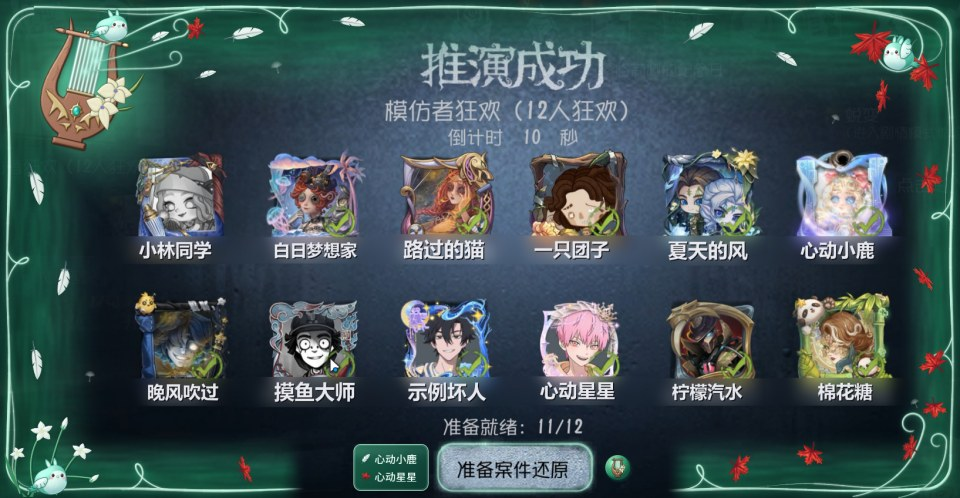
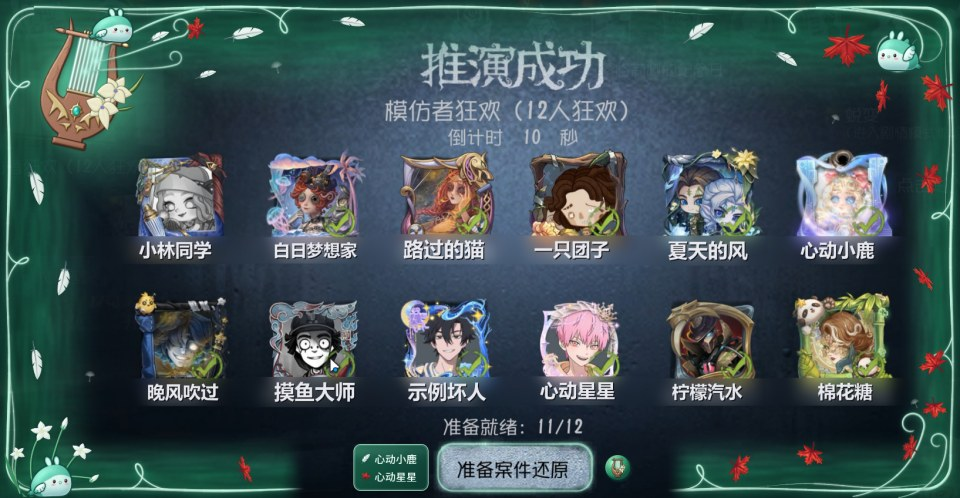
竖琴清风's birds are fat little teal dumplings now, closer to the friend's picture, and breathe, sway, blink and flick a wing while they sit.

Changed region(s): [[0.8438, 0.0602, 1.0, 0.2108], [0.0312, 0.9036, 0.0938, 1.0], [0.0938, 0.0, 0.1562, 0.0904]]

diff --git a/blacklist_detect/love_scenes/lyre.py b/blacklist_detect/love_scenes/lyre.py
@@ -77,13 +77,15 @@ SHARP = 1.5
 # right, and bobs on every strum. One flies in from off the right edge on the entrance's gust, from FLY[0] to FLY[1]
 # seconds in, a flap every FLAP seconds, and lands on the curl in the top right facing left (its way in design points,
 # a curve whose last point is the curl). One sits among the cecilias in the bottom left facing right, and puffs up on
-# the music's downbeat, the first strum. Each blinks now and then.
+# the music's downbeat, the first strum. Sitting, each breathes, sways a little, blinks and flicks a wing now and then.
 PERCH = (53.0, -140.0)
 FLY, FLAP = (0.25, 1.35), 0.24
 WAY_IN = ((1690, 410), (1590, 390), (1575, 90), (1529, 121))
 # The bird among the cecilias sits a little in front of the current, over the stalks' feet.
-NEST = (88, 842)
-BLINKS = ((2.2, 3.75), (2.3, 3.9), (1.7, 3.35, 4.15))
+NEST = (88, 845)
+# Each bird's small life as it sits (the lyre's, the flyer's, the cecilias'): when it blinks, when its wing flutters,
+# and where in its breath it starts.
+IDLE = (((2.2, 3.75), (1.55, 3.3), 0.0), ((2.3, 3.9), (2.6, 4.15), 1.9), ((1.7, 3.35, 4.15), (2.45, 3.9), 3.7))
 
 
 def make(stage: Stage):  # noqa: ANN201
@@ -131,7 +133,8 @@ def make(stage: Stage):  # noqa: ANN201
         (1384, 774, 26, 300, 2.9, False, False, (-6, 0), (1.0, -0.35)), (420, 800, 27, 150, 5.2, False, False, (-7, 0), (-0.8, -0.6)),
     ]  # fmt: skip
     leaves = [(*rest[:4], _matched(rest[4], 1.7, 0.7), *rest[5:]) for rest in leaves]
-    hero_leaves = [(1486, 74, 46, -24, 0.3, False, 1), (1574, 122, 38, 38, 1.9, True, 2), (1504, 162, 32, 76, 3.1, False, 3)]
+    # Clear of the bird that lands on the curl between them.
+    hero_leaves = [(1440, 80, 46, -24, 0.3, False, 1), (1598, 156, 38, 38, 1.9, True, 2), (1504, 162, 32, 76, 3.1, False, 3)]
     hero_leaves = [(x, y, r, a, _matched(ph, 1.1, 0.82), e, s) for x, y, r, a, ph, e, s in hero_leaves]
     updraft = [(1548, 766, 26, -40, _matched(0.9, 2.0, 0.6)), (1592, 698, 23, 30, _matched(2.4, 2.0, 0.6))]
     seeds = [(470, 118, 18, -20, False), (1424, 206, 15, 25, False), (152, 644, 16, 10, True), (1560, 690, 14, -30, True)]
@@ -173,9 +176,9 @@ def make(stage: Stage):  # noqa: ANN201
         for k, (_x, _y, r, angle, _ph, ember, *_rest) in enumerate(leaves):
             out.append((0.85, ("leaf", k), lambda r=r, angle=angle, ember=ember, k=k: _maple_pair(r, angle, ember, 10 + k, ss)))
         out.append((0.85, "seed", lambda: _seed(18, ss)))
-        for pose in ("up", "mid", "down", "sit", "blink"):
+        for pose in ("up", "mid", "down", "sit", "blink", "lift"):
             out.append((0.2, ("bird", -1, pose), lambda pose=pose: _bird(pose, -1, ss)))
-        for pose in ("sit", "blink"):
+        for pose in ("sit", "blink", "lift"):
             out.append((0.3, ("bird", 1, pose), lambda pose=pose: _bird(pose, 1, ss)))
         return sorted(out, key=lambda job: job[0])
 
@@ -237,9 +240,8 @@ def make(stage: Stage):  # noqa: ANN201
             if ("bird", 1, "blink") in art:
                 x = t - STRUMS[0][0]
                 puff = (1 - math.exp(-x / 0.06)) * math.exp(-x / 0.4) if x > 0 else 0.0
-                breath = 1 + 0.012 * math.sin(t * 2.3 + 1)
-                _sat(p, art["bird", 1, _blinked(t, BLINKS[2])], *xy(*NEST), 0, 1.06 * (1 + 0.1 * puff), 1.06 * (1 + 0.08 * puff) * breath, hero, px,
-                     foot)
+                pose, sx, sy, sway = _idle(t, 2)
+                _sat(p, art["bird", 1, pose], *xy(*NEST), sway, sx * (1 + 0.1 * puff), sy * (1 + 0.08 * puff), hero, px, foot)
             for k, (_b0, _b1, top, _size, angle) in enumerate(sprig):
                 turn = angle + nod * (1 if k % 2 else -1)
                 _place(p, art["cecilia", k], *xy(*top), turn, 1, 0.82, hero, px)
@@ -277,9 +279,9 @@ def make(stage: Stage):  # noqa: ANN201
         # On the crossbar: the bird bobs on each strum, down and up and settling.
         if lyre_a > 0 and ("bird", 1, "blink") in art:
             bob = _bob(t)
-            breath = 1 + 0.012 * math.sin(t * 2.6)
-            _sat(p, art["bird", 1, _blinked(t, BLINKS[0])], *lyre_pt(*PERCH, angle, rise), 0.35 * angle, 1 + 0.07 * bob,
-                 (1 - 0.11 * bob) * breath, lyre_a, px, foot)
+            pose, sx, sy, sway = _idle(t, 0)
+            _sat(p, art["bird", 1, pose], *lyre_pt(*PERCH, angle, rise), 0.35 * angle + 0.6 * sway, 0.92 * sx * (1 + 0.07 * bob),
+                 0.92 * sy * (1 - 0.11 * bob), lyre_a, px, foot)
         # The feathers and the leaf the first strum lets go, carried from the strings to where they ride.
         parts = ease_out(win(t, 0.9, 1.4)) * fade
         if parts > 0 and "released-leaf" in art:
@@ -346,10 +348,9 @@ def make(stage: Stage):  # noqa: ANN201
                 size = 0.88 + 0.12 * smooth(0.85, 1.0, way)
                 _sat(p, art["bird", -1, pose], fx, fy - 3 * u * beat * (1 - way), tilt, size * 1.05, size * 0.95, fade, px, foot)
             else:
-                breath = 1 + 0.012 * math.sin(t * 2.4 + 2)
-                if pose == "sit":
-                    pose = _blinked(t, BLINKS[1])
-                _sat(p, art["bird", -1, pose], fx, fy - hop * u, 0, 1 + 0.08 * squash, (1 - 0.12 * squash) * breath, fade, px, foot)
+                idle, sx, sy, sway = _idle(t, 1)
+                _sat(p, art["bird", -1, idle if pose == "sit" else pose], fx, fy - hop * u, sway, sx * (1 + 0.08 * squash),
+                     sy * (1 - 0.12 * squash), fade, px, foot)
         p.restore()
 
     def warm(scale: float) -> None:
@@ -557,9 +558,18 @@ def _sat(p: QPainter, image: QImage, x: float, y: float, angle: float, sx: float
     p.restore()
 
 
-def _blinked(t: float, blinks: tuple[float, ...]) -> str:
-    """A bird's eyes t seconds in: shut ("blink") for a moment from each of blinks, else open ("sit")."""
-    return "blink" if any(0 <= t - when < 0.13 for when in blinks) else "sit"
+def _idle(t: float, which: int) -> tuple[str, float, float, float]:
+    """Sitting bird which's small life t seconds in (see IDLE): its pose, its eyes shut a moment now and then and
+    its wing flicking off its side three times, its breath (its width and height, a few hundredths either way) and
+    its sway, in degrees."""
+    blinks, flutters, phase = IDLE[which]
+    pose = "sit"
+    if any(0 <= t - when < 0.36 and int((t - when) / 0.06) % 2 == 0 for when in flutters):
+        pose = "lift"
+    if any(0 <= t - when < 0.13 for when in blinks):
+        pose = "blink"
+    breath = math.sin(2 * math.pi * t / 1.7 + phase)
+    return pose, 1 - 0.01 * breath, 1 + 0.025 * breath, 2.2 * math.sin(2 * math.pi * t / 2.9 + phase * 1.3)
 
 
 def _bob(t: float) -> float:
@@ -1724,31 +1734,35 @@ def _seed(length: float, ss: float) -> QImage:
     return _picture(np.broadcast_to(rgb(CORE), (size, size, 3)), np.clip(blur(m, 0.5 * ss) * 1.4, 0, 1))
 
 
-# The birds: chubby round teal birds sitting low, almost balls, with a pale mint face and belly, two upright
-# crest feathers, small dark eyes, pink blush, a tiny pale beak, rounded wings with deep teal tips and a little
-# dark tail, in a soft dark-teal line. BIRD design points across their body; their feet FOOT of it below its middle.
+# The birds: fat little teal dumplings, wider than tall, flat underneath, the head the top of the ball, two crest
+# feathers standing up like a rabbit's ears, a big pale face and belly over the front, eyes set wide and low with
+# blush under them, a tiny pale beak, stubby wings pressed to the sides with deep teal tips and a little dark tail,
+# in a firm dark-teal line. BIRD design points tall; its flat bottom, where it sits, FOOT of that below its middle.
 BIRD_TOP, BIRD_SHADE, BIRD_DEEP = "#6fd3b8", "#46b39a", "#2e8f78"
-BIRD_BELLY, BIRD_FACE, BIRD_LINE, BIRD_EYE = "#d9f6ee", "#f2fffb", "#1f5f52", "#3a1f1f"
+BIRD_BELLY, BIRD_FACE, BIRD_LINE, BIRD_EYE = "#d9f6ee", "#f2fffb", "#174a40", "#3a1f1f"
 BLUSH, BEAK = "#f59aae", "#fff7e8"
-TEAL = [(-0.1, "#2c8574"), (0.3, BIRD_SHADE), (0.72, BIRD_TOP), (1.1, "#b4f3e2")]
+TEAL = [(-0.1, "#26796a"), (0.35, BIRD_SHADE), (0.8, BIRD_TOP), (1.15, "#a3ecd8")]
 PALE = [(-0.1, "#8fc4c2"), (0.35, "#b7e2dc"), (0.72, BIRD_BELLY), (1.1, BIRD_FACE)]
-BIRD = 56.0
-FOOT = 0.44
+BIRD = 54.0
+FOOT = 0.45
 # Its wing's turn (degrees, raised as it grows) and how far it is spread, for each pose; folded at rest.
-WINGS = {"sit": (-24.0, 0.92), "blink": (-24.0, 0.92), "up": (78.0, 1.2), "mid": (20.0, 1.2), "down": (-60.0, 1.15)}
-SHOULDER = (-0.17, 0.03)
+# "lift" holds the wing a little off its side, for a flutter.
+WINGS = {"sit": (-30.0, 0.78), "blink": (-30.0, 0.78), "lift": (-8.0, 0.8), "up": (62.0, 1.05), "mid": (16.0, 1.05),
+         "down": (-62.0, 1.0)}
+SHOULDER = (-0.24, 0.1)
+EYES = ((0.1, 0.0), (0.47, -0.01))
 
 
 def _bird(pose: str, face: int, ss: float) -> QImage:
     """A bird facing right (face 1) or left (-1), shaded per pixel: lit from the upper left, a cooler shadow
-    under the belly, a rim of mint light on the far edge. pose: "sit", "blink" (its eyes shut) or a flap,
-    its wings spread "up", "mid" or "down". Centred on its body's middle, ss pixels a design point."""
+    under the belly, a rim of mint light on the far edge. pose: "sit", "blink" (its eyes shut), "lift" (its
+    wing a little off its side) or a flap, its wings spread "up", "mid" or "down". Centred on its body's middle, ss pixels a design point."""
     L = BIRD  # noqa: N806
-    size = int(1.7 * L * ss) // 2 * 2
+    size = int(2.0 * L * ss) // 2 * 2
     xs, ys = _grid(size, size)
-    bx, by = (xs - size / 2) / ss / L * face, (ys - size / 2) / ss / L  # in body widths, as if it faced right
+    bx, by = (xs - size / 2) / ss / L * face, (ys - size / 2) / ss / L  # in its heights, as if it faced right
     turn, spread = WINGS[pose]
-    flap = pose not in ("sit", "blink")
+    flap = pose in ("up", "mid", "down")
 
     def q(x: float, y: float) -> QPointF:
         return QPointF(x, y)
@@ -1777,14 +1791,15 @@ def _bird(pose: str, face: int, ss: float) -> QImage:
     def rim(m: np.ndarray, sigma: float, strength: float) -> np.ndarray:
         return np.clip(blur(m, sigma * L * ss) * strength, 0, 1)
 
-    def leaf(base: tuple[float, float], angle: float, length: float, wide: float) -> QPainterPath:
+    def leaf(base: tuple[float, float], angle: float, length: float, wide: float, tip: float = 0.4) -> QPainterPath:
+        """A feather from base along angle, wide at its widest, its tip as round as tip."""
         a = math.radians(angle)
         d = np.array([math.cos(a), math.sin(a)])
         n = np.array([-d[1], d[0]])
         b = np.array(base)
         path = QPainterPath(q(*(b - n * wide * 0.4)))
-        path.cubicTo(q(*(b + d * length * 0.45 - n * wide)), q(*(b + d * length * 0.9 - n * wide * 0.4)), q(*(b + d * length)))
-        path.cubicTo(q(*(b + d * length * 0.9 + n * wide * 0.4)), q(*(b + d * length * 0.45 + n * wide)), q(*(b + n * wide * 0.4)))
+        path.cubicTo(q(*(b + d * length * 0.45 - n * wide)), q(*(b + d * length * 0.9 - n * wide * tip)), q(*(b + d * length)))
+        path.cubicTo(q(*(b + d * length * 0.9 + n * wide * tip)), q(*(b + d * length * 0.45 + n * wide)), q(*(b + n * wide * 0.4)))
         path.closeSubpath()
         return path
 
@@ -1813,53 +1828,57 @@ def _bird(pose: str, face: int, ss: float) -> QImage:
         nonlocal color, alpha
         color, alpha = _over(color, alpha, c, a)
 
-    body = QPainterPath()
-    body.addEllipse(q(-0.03, 0.07), 0.47, 0.37)
-    body.addEllipse(q(0.1, -0.1), 0.31, 0.3)
-    body.setFillRule(Qt.WindingFill)
-    m_body = round_off(filled(body), 0.05)
-    ears = [filled(leaf((-0.03, -0.29), -118, 0.3, 0.095)), filled(leaf((0.12, -0.34), -100, 0.26, 0.085))]
+    # A dumpling: flat underneath, its back rounding up into the head with no neck, the front a little fuller.
+    body = QPainterPath(q(0.0, 0.45))
+    body.lineTo(q(0.3, 0.45))
+    body.cubicTo(q(0.56, 0.45), q(0.66, 0.24), q(0.64, 0.0))
+    body.cubicTo(q(0.62, -0.32), q(0.44, -0.52), q(0.15, -0.52))
+    body.cubicTo(q(-0.2, -0.52), q(-0.54, -0.28), q(-0.64, 0.06))
+    body.cubicTo(q(-0.69, 0.3), q(-0.55, 0.45), q(-0.3, 0.45))
+    body.closeSubpath()
+    m_body = round_off(filled(body), 0.06)
+    ears = [filled(leaf((0.0, -0.46), -113, 0.33, 0.12, 0.8)), filled(leaf((0.22, -0.49), -96, 0.29, 0.11, 0.8))]
     tail = QPainterPath()
     tail.setFillRule(Qt.WindingFill)
-    for angle, length in ((172, 0.36), (158, 0.33), (186, 0.28)):
-        tail.addPath(leaf((-0.34, 0.24), angle, length, 0.06))
+    for angle, length in ((170, 0.24), (154, 0.21), (186, 0.18)):
+        tail.addPath(leaf((-0.52, 0.3), angle, length, 0.06))
     m_tail = filled(tail)
     near, near_strokes = wing(SHOULDER, turn, spread)
-    m_wing, m_strokes = filled(near), filled(near_strokes, 0.016)
+    m_wing, m_strokes = filled(near), filled(near_strokes, 0.018)
     whole = np.clip(m_body + m_tail + ears[0] + ears[1] + m_wing, 0, 1)
     if flap:
-        far, _ = wing((-0.05, -0.08), turn + 12, spread * 0.92)
+        far, _ = wing((-0.14, -0.1), turn + 12, spread * 0.92)
         m_far = filled(far)
         whole = np.clip(whole + m_far, 0, 1)
     grain = noise(size, size, 2 * ss, 2, 9) - 0.5
 
-    # The soft dark-teal line round all of it, then the parts behind the body, back to front.
-    over(rgb(BIRD_LINE), rim(whole, 0.009, 3.2))
+    # The dark-teal line round all of it, then the parts behind the body, back to front.
+    over(rgb(BIRD_LINE), rim(whole, 0.026, 4.5))
     if flap:
         d, _ = dome(m_far, 0.06, 0.12)
         over(_ramp(TEAL, -0.25 + 0.9 * d), m_far)
     d, _ = dome(m_tail, 0.03, 0.08)
-    over(rgb(BIRD_LINE), rim(m_tail, 0.01, 2.4) * 0.9)
+    over(rgb(BIRD_LINE), rim(m_tail, 0.016, 4.0))
     over(_ramp(TEAL, -0.45 + 0.9 * d + 0.4 * smooth(-0.75, -0.4, bx)), m_tail)
     for m in ears:
         d, _ = dome(m, 0.025, 0.06)
         inner = smooth(0.6, 0.9, blur(m, 0.03 * L * ss)) * m
         c = _ramp(PALE, 0.1 + 0.9 * d)
         c = c + (_ramp(TEAL, 0.1 + 0.8 * d) - c) * (1 - inner)[..., None]
-        over(rgb(BIRD_LINE), rim(m, 0.01, 2.4) * 0.9)
+        over(rgb(BIRD_LINE), rim(m, 0.016, 4.0))
         over(c, m)
 
     # The body: a soft dome lit from the upper left, teal over the head and back, a pale face and belly.
     d, sp = dome(m_body, 0.16, 0.4)
-    k = 0.02 + 1.05 * d - 0.18 * smooth(0.0, 0.44, by)
+    k = -0.06 + 1.0 * d - 0.18 * smooth(0.0, 0.45, by)
     pale = QPainterPath()
-    pale.addEllipse(q(0.19, -0.07), 0.22, 0.17)
-    pale.addEllipse(q(0.12, 0.22), 0.37, 0.23)
+    pale.addEllipse(q(0.3, 0.02), 0.38, 0.22)
+    pale.addEllipse(q(0.2, 0.24), 0.56, 0.36)
     pale.setFillRule(Qt.WindingFill)
     k_pale = smooth(0.3, 0.7, blur(filled(pale), 0.035 * L * ss))
     c = _ramp(TEAL, k) * (1 - k_pale)[..., None] + _ramp(PALE, k + 0.04) * k_pale[..., None]
     # Cooler under the belly, a rim of mint light on the edge away from the light, a faint plush grain.
-    under = smooth(0.12, 0.46, by)
+    under = smooth(0.15, 0.47, by)
     c = c + (rgb("#78aeb8") - c) * (0.38 * under * k_pale)[..., None]
     soft = blur(m_body, 0.05 * L * ss)
     gy, gx = np.gradient(soft)
@@ -1871,32 +1890,32 @@ def _bird(pose: str, face: int, ss: float) -> QImage:
     over(c, m_body)
 
     # The face: blush, eyes (shut, a soft curve), the beak between them.
-    for x, y in ((-0.02, -0.025), (0.36, -0.03)):
-        over(rgb(BLUSH), np.exp(-(((bx - x) / 0.058) ** 2 + ((by - y) / 0.032) ** 2) ** 2) * 0.8)
+    for x, y in ((0.06, 0.095), (0.5, 0.085)):
+        over(rgb(BLUSH), np.exp(-(((bx - x) / 0.068) ** 2 + ((by - y) / 0.036) ** 2) ** 2) * 0.8)
     eyes = QPainterPath()
-    for ex, ey in ((0.04, -0.1), (0.3, -0.1)):
+    for ex, ey in EYES:
         if pose == "blink":
-            eyes.moveTo(q(ex - 0.042, ey - 0.004))
-            eyes.quadTo(q(ex, ey + 0.036), q(ex + 0.042, ey - 0.004))
+            eyes.moveTo(q(ex - 0.048, ey - 0.004))
+            eyes.quadTo(q(ex, ey + 0.04), q(ex + 0.048, ey - 0.004))
         else:
-            eyes.addEllipse(q(ex, ey), 0.04, 0.05)
-    over(rgb(BIRD_EYE), filled(eyes, 0.022) if pose == "blink" else filled(eyes))
+            eyes.addEllipse(q(ex, ey), 0.046, 0.056)
+    over(rgb(BIRD_EYE), filled(eyes, 0.026) if pose == "blink" else filled(eyes))
     if pose != "blink":
-        for ex, ey in ((0.04, -0.1), (0.3, -0.1)):
-            spot = np.exp(-((bx - ex + 0.012 * face) ** 2 + (by - ey + 0.02) ** 2) / 0.012**2)
+        for ex, ey in EYES:
+            spot = np.exp(-((bx - ex + 0.014 * face) ** 2 + (by - ey + 0.022) ** 2) / 0.014**2)
             over(np.broadcast_to(rgb("#ffffff"), spot.shape + (3,)), np.clip(spot * 1.5, 0, 0.95))
-    beak = QPainterPath(q(0.142, -0.075))
-    beak.lineTo(q(0.212, -0.075))
-    beak.lineTo(q(0.177, -0.022))
+    beak = QPainterPath(q(0.25, 0.025))
+    beak.lineTo(q(0.33, 0.025))
+    beak.lineTo(q(0.29, 0.085))
     beak.closeSubpath()
     m_beak = filled(beak)
-    over(rgb(BIRD_LINE), rim(m_beak, 0.008, 2.4) * 0.85)
-    over(rgb(BEAK) * (1 - 0.12 * smooth(-0.07, -0.02, by))[..., None], m_beak)
+    over(rgb(BIRD_LINE), rim(m_beak, 0.01, 3.0) * 0.9)
+    over(rgb(BEAK) * (1 - 0.12 * smooth(0.03, 0.08, by))[..., None], m_beak)
 
     # The near wing over the body: a little shadow on it, its line, pale to deep teal at the tips, its feathers.
     shift = max(1, round(0.025 * L * ss))
     over(rgb("#1d5c50"), np.roll(blur(m_wing, 0.025 * L * ss), shift, axis=0) * m_body * 0.3)
-    over(rgb(BIRD_LINE), rim(m_wing, 0.008, 3.0))
+    over(rgb(BIRD_LINE), rim(m_wing, 0.018, 4.5))
     d, sp = dome(m_wing, 0.05, 0.12)
     sx, sy = SHOULDER
     a = math.radians(turn)
